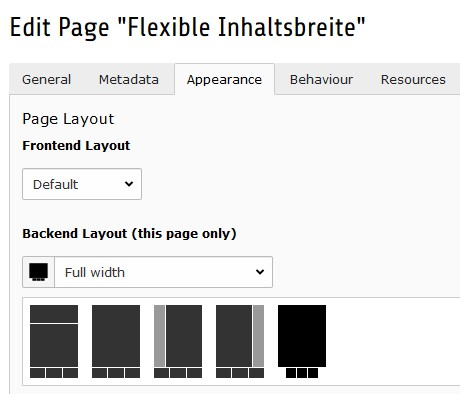
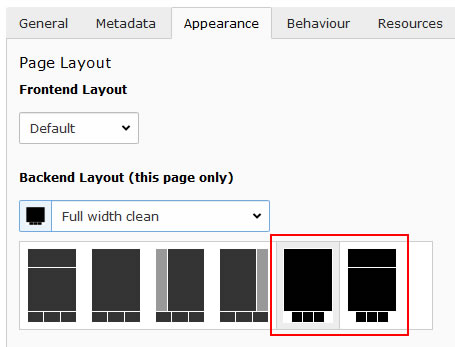
...

diff --git a/Documentation/User/Design.rst b/Documentation/User/Design.rst
@@ -7,20 +7,32 @@
 Design
 ======
 
+The arrangement and appearance from content elements can be defined on different areas.
 
-.. _user-flexContentWidth:
+The coarse structure is defined with the page layout where grid elements might further organize the content in columns,
+registers, and the like. The fine tuning can be done on a content element basis by altering the frame, attributes and
+background.
+
+
+.. _user-design-page:
+
+Page layout
+===========
+
+
+.. _user-design-flexContentWidth:
 
 Flexible content width
-======================
+----------------------
 
 To create content spanning the entire page width (`see example <https://www.pizpalue.buechler.pro/das-plus/flexible-inhaltsbreite/>`__)
-one might use the "Full width" page layout in conjunction with the "Bootstrap
-fix container" and "Full with container" grid elements:
+a "Full width" page layout in conjunction with the "Bootstrap fix container" and "Full with container" grid elements
+might be used:
 
 .. figure:: ../Images/User/ContentWidth_PageAppearance.jpg
-   :alt: "Full width" page layout
+   :alt: "Full width" page layouts
 
-   "Full width" page layout
+   "Full width" page layouts
 
 .. figure:: ../Images/User/ContentWidth_Container.jpg
    :width: 500px
@@ -40,7 +52,7 @@ fix container" and "Full with container" grid elements:
       Container grid element plugin options
 
 
-.. _user-bootstrap_grids:
+.. _user-design-gridelements:
 
 Grid elements
 =============
@@ -56,11 +68,15 @@ under the "Grid Elements" tab:
    "Grid Elements"-tab in new content element wizard
 
 
-.. _user-customframes:
+.. _user-design-contentElement:
 
+Content element
+===============
+
+.. _user-design-customframes:
 
 Custom frames
-=============
+-------------
 
 Additional frames can be selected for content elements (`see example <https://www.pizpalue.buechler.pro/das-plus/gestaltung/rahmen/>`__):
 
@@ -69,24 +85,23 @@ Additional frames can be selected for content elements (`see example <https://ww
 
    Custom frames for content elements
 
-As for the time beeing the custom animations (Custom animation 1..3) aren't
-implemented yet.
+As for the time being the custom animations (Custom animation 1..3) aren't implemented yet.
 
 
-.. _ce-attributes:
+.. _user-design-attributes_background:
 
-Attribute enhancement for content elements
-==========================================
+Attributes and background for content elements
+----------------------------------------------
 
-Sometimes it would be handy to directly alter attributes from a content element container: add an additional class,
-some inline style or additional attributes.
+Sometimes it would be handy to directly alter attributes and assign a background image to content elements.
 
 This functionality has been added by introducing additional fields to the content element table and adapting the
-rendering accordingly. The new fields are available under the appearance tab in the "Attributes" palette.
+rendering accordingly. The new fields are available under the appearance tab in the "Attributes" and "Background"
+palette.
 
-.. figure:: ../Images/User/ContentElementAttributes.jpg
+.. figure:: ../Images/User/ContentElement_Appearance.jpg
    :width: 500px
-   :alt: Palette "Attributes" under the appearance tab in the content element form
+   :alt: Palette "Attributes" and "Background" under the appearance tab in the content element form
 
-   Palette "Attributes" under the appearance tab in the content element form
+   Palette "Attributes" and "Background" under the appearance tab in the content element form
 

diff --git a/Documentation/User/Various.rst b/Documentation/User/Various.rst
@@ -54,9 +54,9 @@ curly brackets within the editor (`see example <https://www.pizpalue.buechler.pr
 Piz Palue classes
 =================
 
-============================= =======================================================================
+============================= =============================================================================
 Class                         Usage
-============================= =======================================================================
+============================= =============================================================================
 pp-label-dataprotection       Used in wrapper grid element to define a replacement text for a data
                               protection notice check box (see contact page)
 pp-parent-height              Elements using this class will get the same height as their parent element
@@ -65,4 +65,12 @@ pp-row-child-height           Elements in a row using this class will have their
                               harmonized. Each child element will have the same height as its neighbour
                               element in an other column (all headers, all images, all Text blocks
                               have the same height).
-============================= =======================================================================
+pp-ce-background              Centers the background and sizes it to cover the area.
+pp-ce-bgfixed                 Fixes the background. The result is a parallax effect. Due to mobile devices
+                              not supporting this feature fully it is generally disabled on mobile devices.
+pp-ce-margin                  Applies a margin to the container
+pp-ce-padding                 Applies a padding to the container
+pp-ce-bgwhite70               Applies a white background with 70% opacity
+pp-ce-gray70                  Applies a gray background with 70% opacity
+pp-ce-bgblack70               Applies a black background with 70% opacity
+============================= =============================================================================
